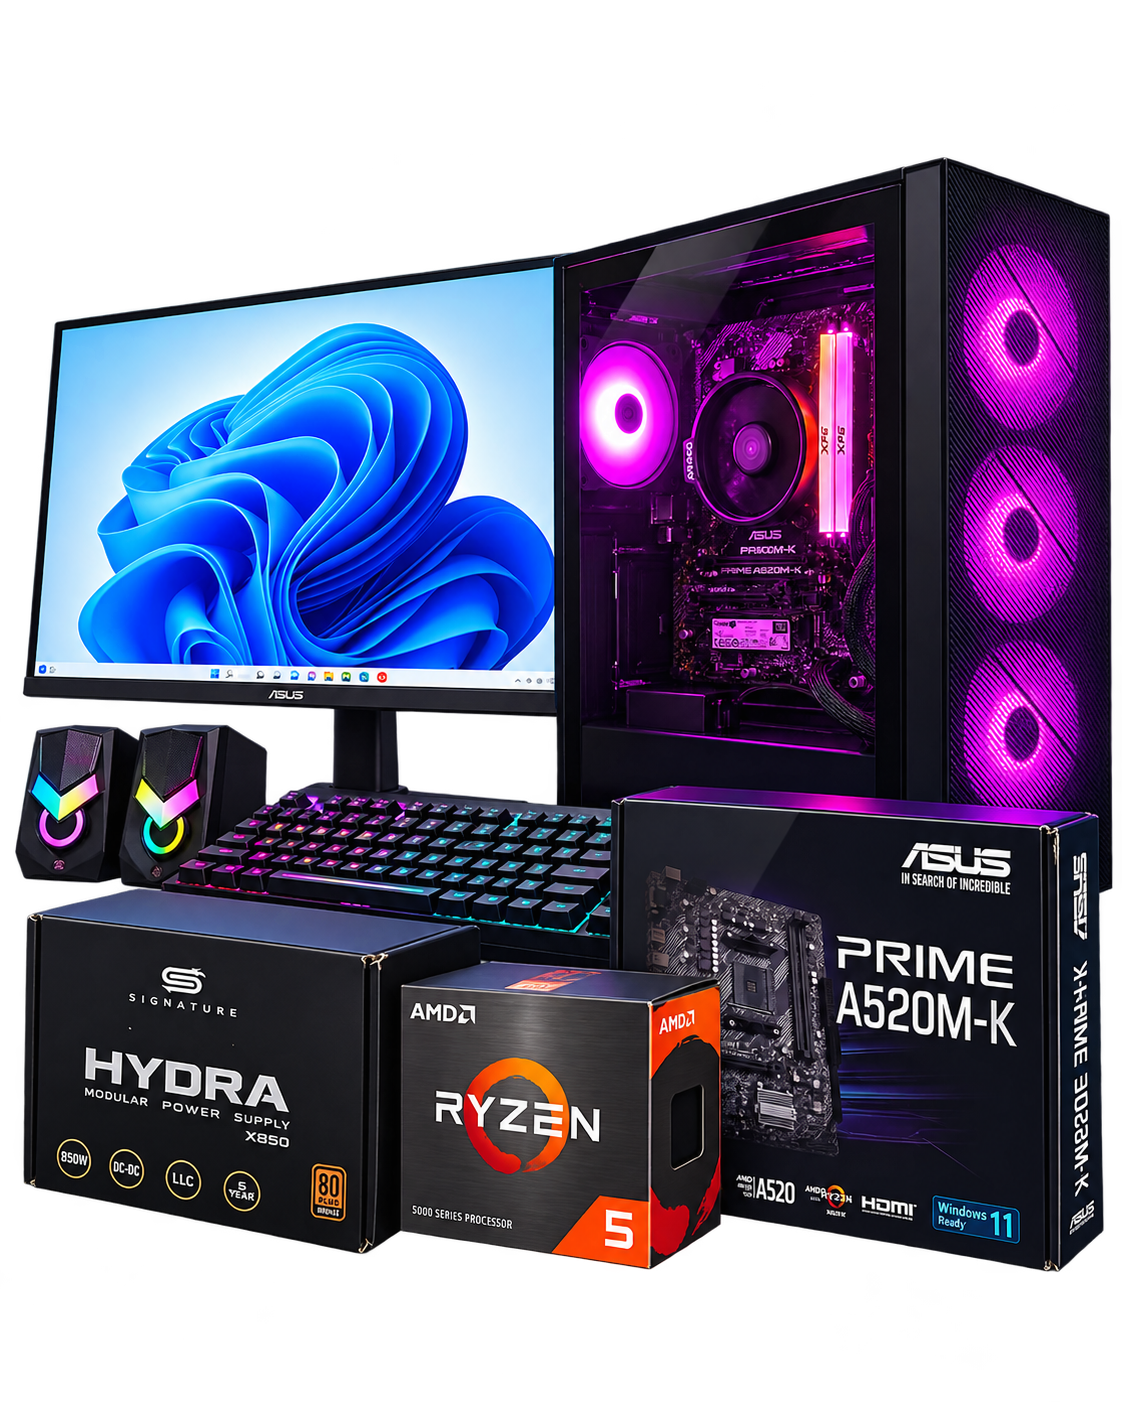
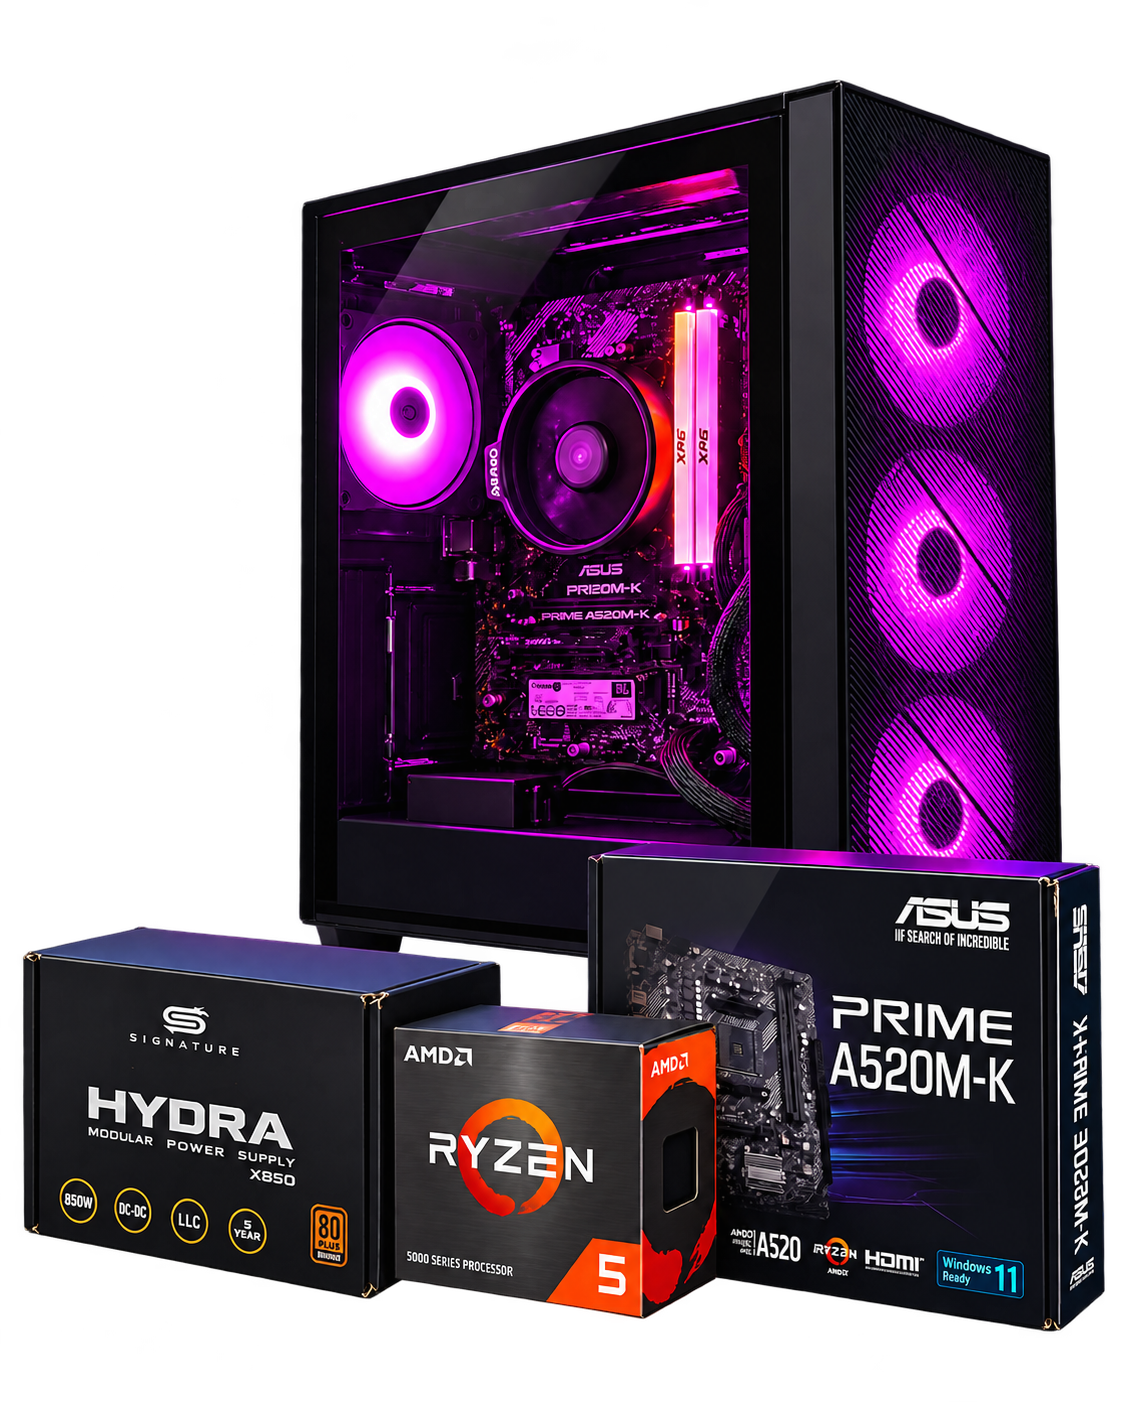
Actualiza precio a 720000 y reemplaza imagenes sin perifericos

diff --git a/frontend/src/data/pcs.js b/frontend/src/data/pcs.js
@@ -33,7 +33,7 @@ export const pcs = [
       1,
 
     price:
-      750000,
+      720000,
 
     condition:
       'Equipo armado y probado',
